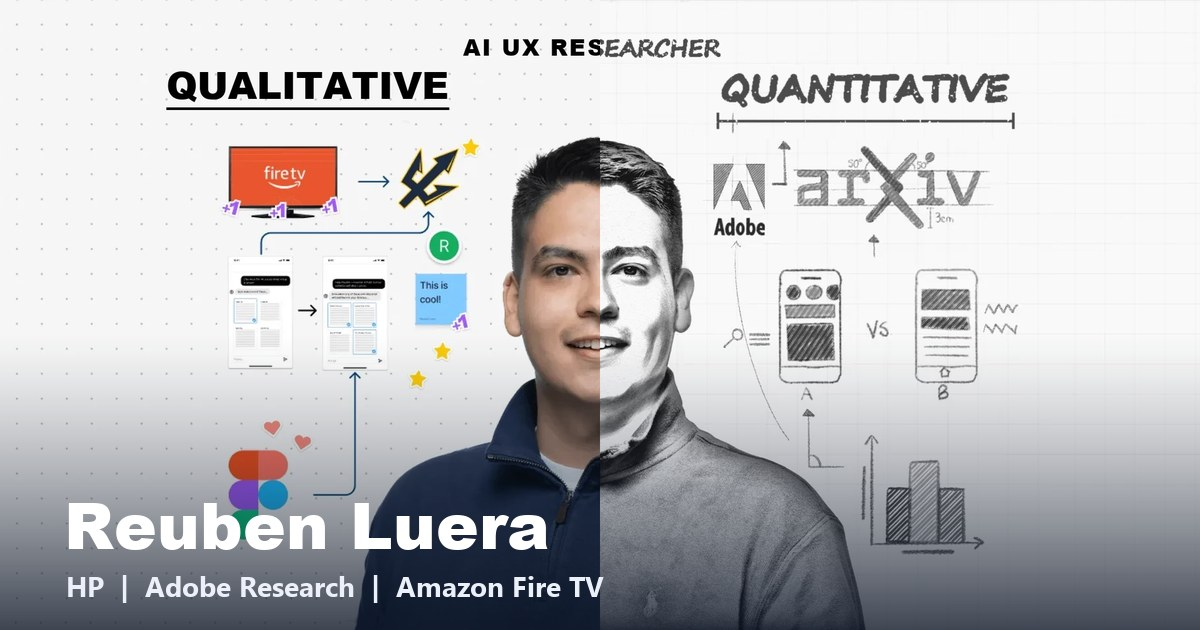
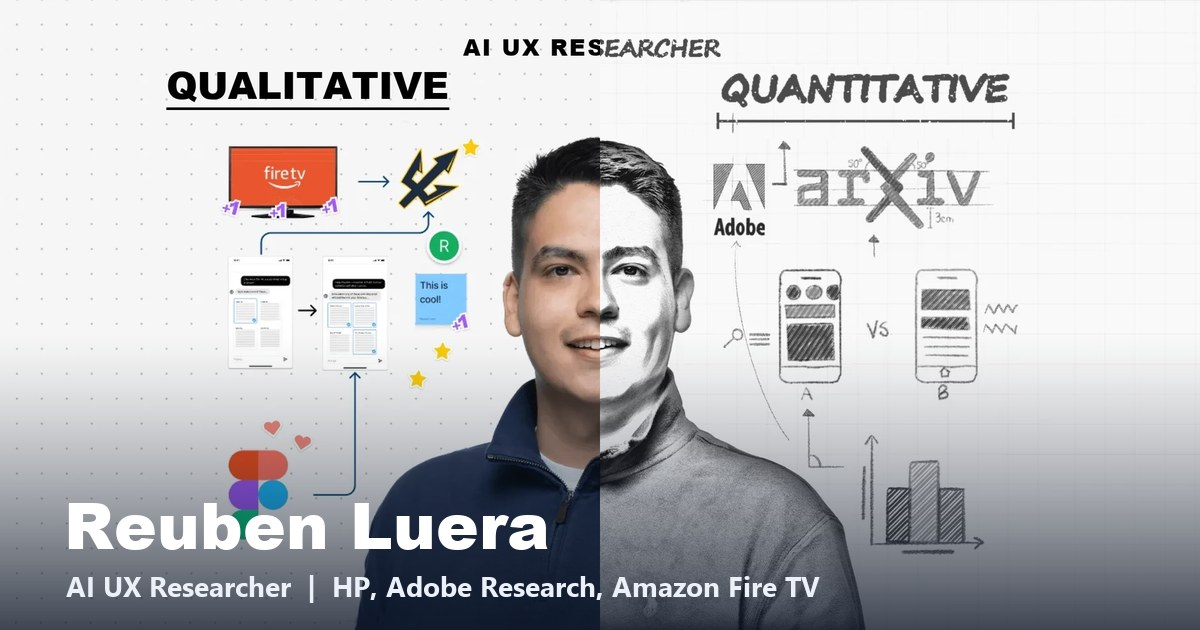
Share image: restore the role caption, new URL so link previews refresh on every page

Changed region(s): [[0.0617, 0.9048, 0.6783, 0.9651]]

diff --git a/stasis/index.html b/stasis/index.html
@@ -11,15 +11,15 @@
 <link rel="apple-touch-icon" href="../assets/apple-touch-icon.png">
 <meta property="og:type" content="website">
 <meta property="og:site_name" content="Reuben Luera Portfolio">
-<meta property="og:title" content="Stasis App | Reuben Luera">
+<meta property="og:title" content="Stasis Insole App | Reuben Luera">
 <meta property="og:description" content="Founding UX designer and researcher for the Stasis insole companion app: golfer interviews, competitive analysis, personas, wireframes and two tested iOS prototypes.">
 <meta property="og:url" content="https://benluera.github.io/portfolio/stasis/">
-<meta property="og:image" content="https://benluera.github.io/portfolio/assets/og.jpg">
+<meta property="og:image" content="https://benluera.github.io/portfolio/assets/og.jpg?v=2">
 <meta property="og:image:width" content="1200"><meta property="og:image:height" content="630">
 <meta name="twitter:card" content="summary_large_image">
 <meta name="twitter:title" content="Stasis App | Reuben Luera">
 <meta name="twitter:description" content="Founding UX designer and researcher for the Stasis insole companion app: golfer interviews, competitive analysis, personas, wireframes and two tested iOS prototypes.">
-<meta name="twitter:image" content="https://benluera.github.io/portfolio/assets/og.jpg">
+<meta name="twitter:image" content="https://benluera.github.io/portfolio/assets/og.jpg?v=2">
 <link rel="preconnect" href="https://fonts.googleapis.com"><link rel="preconnect" href="https://fonts.gstatic.com" crossorigin>
 <link rel="stylesheet" href="https://fonts.googleapis.com/css2?family=Inter:wght@400;500;600;700;800&family=Inter+Tight:wght@500;600;700&family=Montserrat:ital,wght@0,400;0,500;0,600;0,700;0,800;0,900;1,400&family=Nunito:ital,wght@0,400;0,500;0,600;0,700;0,800;0,900;1,400&family=Plaster&family=Unbounded:wght@400;500;600;700&display=swap">
 <link rel="stylesheet" href="../assets/base.css?v=qq7">

diff --git a/aiftv-2/index.html b/aiftv-2/index.html
@@ -14,12 +14,12 @@
 <meta property="og:title" content="FireTV Live Guide Redesign | Reuben Luera">
 <meta property="og:description" content="Research and redesign of the Fire TV Live Guide: usability testing, journey mapping and a lightweight follow system that puts the ~12 channels people watch first.">
 <meta property="og:url" content="https://benluera.github.io/portfolio/aiftv-2/">
-<meta property="og:image" content="https://benluera.github.io/portfolio/assets/og.jpg">
+<meta property="og:image" content="https://benluera.github.io/portfolio/assets/og.jpg?v=2">
 <meta property="og:image:width" content="1200"><meta property="og:image:height" content="630">
 <meta name="twitter:card" content="summary_large_image">
 <meta name="twitter:title" content="FireTV Live Guide Redesign | Reuben Luera">
 <meta name="twitter:description" content="Research and redesign of the Fire TV Live Guide: usability testing, journey mapping and a lightweight follow system that puts the ~12 channels people watch first.">
-<meta name="twitter:image" content="https://benluera.github.io/portfolio/assets/og.jpg">
+<meta name="twitter:image" content="https://benluera.github.io/portfolio/assets/og.jpg?v=2">
 <link rel="preconnect" href="https://fonts.googleapis.com"><link rel="preconnect" href="https://fonts.gstatic.com" crossorigin>
 <link rel="stylesheet" href="https://fonts.googleapis.com/css2?family=Inter:wght@400;500;600;700;800&family=Inter+Tight:wght@500;600;700&family=Montserrat:ital,wght@0,400;0,500;0,600;0,700;0,800;0,900;1,400&family=Nunito:ital,wght@0,400;0,500;0,600;0,700;0,800;0,900;1,400&family=Plaster&family=Unbounded:wght@400;500;600;700&display=swap">
 <link rel="stylesheet" href="../assets/base.css?v=qq7">

diff --git a/index.html b/index.html
@@ -14,12 +14,12 @@
 <meta property="og:title" content="Reuben Luera Portfolio">
 <meta property="og:description" content="Reuben Luera: AI UX researcher. Qualitative and quantitative research on AI products at HP, published HCI research at Adobe Research, and generative AI search at Amazon Fire TV.">
 <meta property="og:url" content="https://benluera.github.io/portfolio/">
-<meta property="og:image" content="https://benluera.github.io/portfolio/assets/og.jpg">
+<meta property="og:image" content="https://benluera.github.io/portfolio/assets/og.jpg?v=2">
 <meta property="og:image:width" content="1200"><meta property="og:image:height" content="630">
 <meta name="twitter:card" content="summary_large_image">
 <meta name="twitter:title" content="Reuben Luera Portfolio">
 <meta name="twitter:description" content="Reuben Luera: AI UX researcher. Qualitative and quantitative research on AI products at HP, published HCI research at Adobe Research, and generative AI search at Amazon Fire TV.">
-<meta name="twitter:image" content="https://benluera.github.io/portfolio/assets/og.jpg">
+<meta name="twitter:image" content="https://benluera.github.io/portfolio/assets/og.jpg?v=2">
 <link rel="preconnect" href="https://fonts.googleapis.com"><link rel="preconnect" href="https://fonts.gstatic.com" crossorigin>
 <link rel="stylesheet" href="https://fonts.googleapis.com/css2?family=Inter:wght@400;500;600;700;800&family=Inter+Tight:wght@500;600;700&family=Montserrat:ital,wght@0,400;0,500;0,600;0,700;0,800;0,900;1,400&family=Nunito:ital,wght@0,400;0,500;0,600;0,700;0,800;0,900;1,400&family=Plaster&family=Unbounded:wght@400;500;600;700&display=swap">
 <link rel="stylesheet" href="assets/base.css?v=qq7">

diff --git a/mllmjudge/index.html b/mllmjudge/index.html
@@ -14,12 +14,12 @@
 <meta property="og:title" content="MLLM as a UI Judge | Reuben Luera">
 <meta property="og:description" content="Mixed-methods research on multimodal LLMs as UI judges at Adobe Research: contextual inquiry, RITE testing and a 30-interface benchmark against human ratings.">
 <meta property="og:url" content="https://benluera.github.io/portfolio/mllmjudge/">
-<meta property="og:image" content="https://benluera.github.io/portfolio/assets/og.jpg">
+<meta property="og:image" content="https://benluera.github.io/portfolio/assets/og.jpg?v=2">
 <meta property="og:image:width" content="1200"><meta property="og:image:height" content="630">
 <meta name="twitter:card" content="summary_large_image">
 <meta name="twitter:title" content="MLLM as a UI Judge | Reuben Luera">
 <meta name="twitter:description" content="Mixed-methods research on multimodal LLMs as UI judges at Adobe Research: contextual inquiry, RITE testing and a 30-interface benchmark against human ratings.">
-<meta name="twitter:image" content="https://benluera.github.io/portfolio/assets/og.jpg">
+<meta name="twitter:image" content="https://benluera.github.io/portfolio/assets/og.jpg?v=2">
 <link rel="preconnect" href="https://fonts.googleapis.com"><link rel="preconnect" href="https://fonts.gstatic.com" crossorigin>
 <link rel="stylesheet" href="https://fonts.googleapis.com/css2?family=Inter:wght@400;500;600;700;800&family=Inter+Tight:wght@500;600;700&family=Montserrat:ital,wght@0,400;0,500;0,600;0,700;0,800;0,900;1,400&family=Nunito:ital,wght@0,400;0,500;0,600;0,700;0,800;0,900;1,400&family=Plaster&family=Unbounded:wght@400;500;600;700&display=swap">
 <link rel="stylesheet" href="../assets/base.css?v=qq7">

diff --git a/aiftv/index.html b/aiftv/index.html
@@ -14,12 +14,12 @@
 <meta property="og:title" content="AI on Fire TV Search | Reuben Luera">
 <meta property="og:description" content="Designing conversational, generative AI search for Amazon Fire TV: longer queries, refinements and a redesigned breadcrumb inside the existing design system.">
 <meta property="og:url" content="https://benluera.github.io/portfolio/aiftv/">
-<meta property="og:image" content="https://benluera.github.io/portfolio/assets/og.jpg">
+<meta property="og:image" content="https://benluera.github.io/portfolio/assets/og.jpg?v=2">
 <meta property="og:image:width" content="1200"><meta property="og:image:height" content="630">
 <meta name="twitter:card" content="summary_large_image">
 <meta name="twitter:title" content="AI on Fire TV Search | Reuben Luera">
 <meta name="twitter:description" content="Designing conversational, generative AI search for Amazon Fire TV: longer queries, refinements and a redesigned breadcrumb inside the existing design system.">
-<meta name="twitter:image" content="https://benluera.github.io/portfolio/assets/og.jpg">
+<meta name="twitter:image" content="https://benluera.github.io/portfolio/assets/og.jpg?v=2">
 <link rel="preconnect" href="https://fonts.googleapis.com"><link rel="preconnect" href="https://fonts.gstatic.com" crossorigin>
 <link rel="stylesheet" href="https://fonts.googleapis.com/css2?family=Inter:wght@400;500;600;700;800&family=Inter+Tight:wght@500;600;700&family=Montserrat:ital,wght@0,400;0,500;0,600;0,700;0,800;0,900;1,400&family=Nunito:ital,wght@0,400;0,500;0,600;0,700;0,800;0,900;1,400&family=Plaster&family=Unbounded:wght@400;500;600;700&display=swap">
 <link rel="stylesheet" href="../assets/base.css?v=qq7">

diff --git a/optimizing/index.html b/optimizing/index.html
@@ -14,12 +14,12 @@
 <meta property="og:title" content="AI Data Preferences | Reuben Luera">
 <meta property="og:description" content="First-author study of 50,000 responses on when people prefer charts, tables or text, and what it means for personalizing Adobe analytics tools.">
 <meta property="og:url" content="https://benluera.github.io/portfolio/optimizing/">
-<meta property="og:image" content="https://benluera.github.io/portfolio/assets/og.jpg">
+<meta property="og:image" content="https://benluera.github.io/portfolio/assets/og.jpg?v=2">
 <meta property="og:image:width" content="1200"><meta property="og:image:height" content="630">
 <meta name="twitter:card" content="summary_large_image">
 <meta name="twitter:title" content="AI Data Preferences | Reuben Luera">
 <meta name="twitter:description" content="First-author study of 50,000 responses on when people prefer charts, tables or text, and what it means for personalizing Adobe analytics tools.">
-<meta name="twitter:image" content="https://benluera.github.io/portfolio/assets/og.jpg">
+<meta name="twitter:image" content="https://benluera.github.io/portfolio/assets/og.jpg?v=2">
 <link rel="preconnect" href="https://fonts.googleapis.com"><link rel="preconnect" href="https://fonts.gstatic.com" crossorigin>
 <link rel="stylesheet" href="https://fonts.googleapis.com/css2?family=Inter:wght@400;500;600;700;800&family=Inter+Tight:wght@500;600;700&family=Montserrat:ital,wght@0,400;0,500;0,600;0,700;0,800;0,900;1,400&family=Nunito:ital,wght@0,400;0,500;0,600;0,700;0,800;0,900;1,400&family=Plaster&family=Unbounded:wght@400;500;600;700&display=swap">
 <link rel="stylesheet" href="../assets/base.css?v=qq7">

diff --git a/survey/index.html b/survey/index.html
@@ -14,12 +14,12 @@
 <meta property="og:title" content="Generative AI UX Survey | Reuben Luera">
 <meta property="og:description" content="First-author survey paper proposing a taxonomy of user-guided interaction patterns in generative AI applications.">
 <meta property="og:url" content="https://benluera.github.io/portfolio/survey/">
-<meta property="og:image" content="https://benluera.github.io/portfolio/assets/og.jpg">
+<meta property="og:image" content="https://benluera.github.io/portfolio/assets/og.jpg?v=2">
 <meta property="og:image:width" content="1200"><meta property="og:image:height" content="630">
 <meta name="twitter:card" content="summary_large_image">
 <meta name="twitter:title" content="Generative AI UX Survey | Reuben Luera">
 <meta name="twitter:description" content="First-author survey paper proposing a taxonomy of user-guided interaction patterns in generative AI applications.">
-<meta name="twitter:image" content="https://benluera.github.io/portfolio/assets/og.jpg">
+<meta name="twitter:image" content="https://benluera.github.io/portfolio/assets/og.jpg?v=2">
 <link rel="preconnect" href="https://fonts.googleapis.com"><link rel="preconnect" href="https://fonts.gstatic.com" crossorigin>
 <link rel="stylesheet" href="https://fonts.googleapis.com/css2?family=Inter:wght@400;500;600;700;800&family=Inter+Tight:wght@500;600;700&family=Montserrat:ital,wght@0,400;0,500;0,600;0,700;0,800;0,900;1,400&family=Nunito:ital,wght@0,400;0,500;0,600;0,700;0,800;0,900;1,400&family=Plaster&family=Unbounded:wght@400;500;600;700&display=swap">
 <link rel="stylesheet" href="../assets/base.css?v=qq7">
